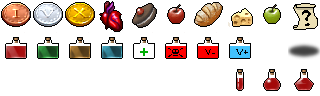
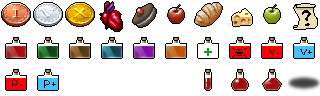
ADD New potions (weakness and strength)

diff --git a/src/Items.h b/src/Items.h
@@ -62,7 +62,7 @@ const std::string spellLabel[SpellNone] =
   "spell_fairy"
 };
 
-const int NUMBER_UNIDENTIFIED = 4;
+const int NUMBER_UNIDENTIFIED = 6;
 
 /** Item type enum
  *  All the items and equipments.
@@ -84,11 +84,15 @@ enum enumItemType
   ItemPotion02,
   ItemPotion03,
   ItemPotion04,
+  ItemPotion05,
+  ItemPotion06,
   // effect
   ItemPotionHealth,
   ItemPotionPoison,
   ItemPotionSlow,
   ItemPotionSpeed,
+  ItemPotionWeakness,
+  ItemPotionStrength,
 
   ItemMagicianHat,    // first equip item
   ItemLeatherBoots,
@@ -246,6 +250,14 @@ const itemStuct items[NUMBER_ITEMS] =
     ItemPotion04, "item_potion_04", "item_potion_desc",
     10, false, FamiliarNone, true, true, false, 1, RarityRare, false, -1, ShotTypeStandard, SpellNone, true
   },
+  {
+    ItemPotion05, "item_potion_05", "item_potion_desc",
+    10, false, FamiliarNone, true, true, false, 1, RarityRare, false, -1, ShotTypeStandard, SpellNone, true
+  },
+  {
+    ItemPotion06, "item_potion_06", "item_potion_desc",
+    10, false, FamiliarNone, true, true, false, 1, RarityRare, false, -1, ShotTypeStandard, SpellNone, true
+  },
   // effect
   {
     ItemPotionHealth, "item_potion_health", "item_potion_health_desc",
@@ -261,6 +273,14 @@ const itemStuct items[NUMBER_ITEMS] =
   },
   {
     ItemPotionSpeed, "item_potion_speed", "item_potion_speed_desc",
+    10, false, FamiliarNone, false, false, false, 1, RarityRare, false, -1, ShotTypeStandard, SpellNone, true
+  },
+  {
+    ItemPotionWeakness, "item_potion_weakness", "item_potion_weakness_desc",
+    10, false, FamiliarNone, false, false, false, 1, RarityRare, false, -1, ShotTypeStandard, SpellNone, true
+  },
+  {
+    ItemPotionStrength, "item_potion_strength", "item_potion_strength_desc",
     10, false, FamiliarNone, false, false, false, 1, RarityRare, false, -1, ShotTypeStandard, SpellNone, true
   },
 

diff --git a/src/PlayerEntity.cpp b/src/PlayerEntity.cpp
@@ -2038,8 +2038,26 @@ void PlayerEntity::consume(enumItemType item)
     specialState[SpecialStateSlow].active = false;
     specialState[SpecialStateSlow].waitUnclear = true;
     specialState[SpecialStateSlow].timer = 30;
-    specialState[SpecialStateSlow].param1 = 0.35;
+    specialState[SpecialStateSlow].param1 = 0.35f;
     displayFlyingText( x, y - 20.0f, 16, tools::getLabel("effect_slow"), TextEntity::COLOR_FADING_RED);
+    SoundManager::getInstance().playSound(SOUND_DRINK);
+    break;
+
+  case ItemPotionWeakness:
+    specialState[SpecialStateWeakness].active = false;
+    specialState[SpecialStateWeakness].waitUnclear = true;
+    specialState[SpecialStateWeakness].timer = 30;
+    specialState[SpecialStateWeakness].param1 = 0.5f;
+    displayFlyingText( x, y - 20.0f, 16, tools::getLabel("effect_weakness"), TextEntity::COLOR_FADING_RED);
+    SoundManager::getInstance().playSound(SOUND_DRINK);
+    break;
+
+  case ItemPotionStrength:
+    specialState[SpecialStateStrength].active = false;
+    specialState[SpecialStateStrength].waitUnclear = true;
+    specialState[SpecialStateStrength].timer = 30;
+    specialState[SpecialStateStrength].param1 = 1.5f;
+    displayFlyingText( x, y - 20.0f, 16, tools::getLabel("effect_strength"), TextEntity::COLOR_FADING_BLUE);
     SoundManager::getInstance().playSound(SOUND_DRINK);
     break;
 
@@ -2275,6 +2293,12 @@ void PlayerEntity::computePlayer()
   {
     movingStyle = movWalking;
   }
+
+  // potions
+  if (specialState[SpecialStateWeakness].active && !specialState[SpecialStateStrength].active)
+    fireDamages *= specialState[SpecialStateWeakness].param1;
+  if (specialState[SpecialStateStrength].active && !specialState[SpecialStateWeakness].active)
+    fireDamages *= specialState[SpecialStateStrength].param1;
 }
 
 void PlayerEntity::acquireStance(enumItemType type)

diff --git a/src/BaseCreatureEntity.cpp b/src/BaseCreatureEntity.cpp
@@ -105,11 +105,14 @@ float BaseCreatureEntity::animateStates(float delay)
     if (specialState[i].active)
     {
       specialState[i].timer -= delay;
-      if (specialState[i].timer <= 0.0f) setSpecialState((enumSpecialState)i, false, 0.0f, 0.0f, 0.0f);
+      if (specialState[i].timer <= 0.0f)
+      {
+        setSpecialState((enumSpecialState)i, false, 0.0f, 0.0f, 0.0f);
+        game().getPlayer()->computePlayer();
+      }
     }
     else if (specialState[i].waitUnclear && !game().getCurrentMap()->isCleared())
     {
-      std::cout << "Unclear: " << i << std::endl;
       specialState[i].waitUnclear = false;
       specialState[i].active = true;
       game().getPlayer()->computePlayer();

diff --git a/src/BaseCreatureEntity.h b/src/BaseCreatureEntity.h
@@ -115,6 +115,8 @@ enum enumSpecialState
   SpecialStateSlow,   // param 1 = multiplier
   SpecialStateSpeed,  // param 1 = multiplier
   SpecialStatePoison,
+  SpecialStateWeakness,
+  SpecialStateStrength,
 
   SpecialStateConfused,
 
@@ -160,6 +162,8 @@ const std::string specialStateToString[NB_SPECIAL_STATES] =
   "Slow",
   "Hasted",
   "Poisoned",
+  "Weakness",
+  "Strength",
   "Confused",
   "Protected (div)",
   "Hasted (div)",

diff --git a/src/ItemEntity.cpp b/src/ItemEntity.cpp
@@ -196,7 +196,7 @@ void ItemEntity::render(sf::RenderTarget* app)
   // shadow
   if (itemType < FirstEquipItem)
   {
-    sprite.setTextureRect(sf::IntRect(9 * width, height, width, height));
+    sprite.setTextureRect(sf::IntRect(9 * width, 2 * height, width, height));
     sprite.setPosition(x, y + 3);
     app->draw(sprite);
     sprite.setPosition(x, y);
